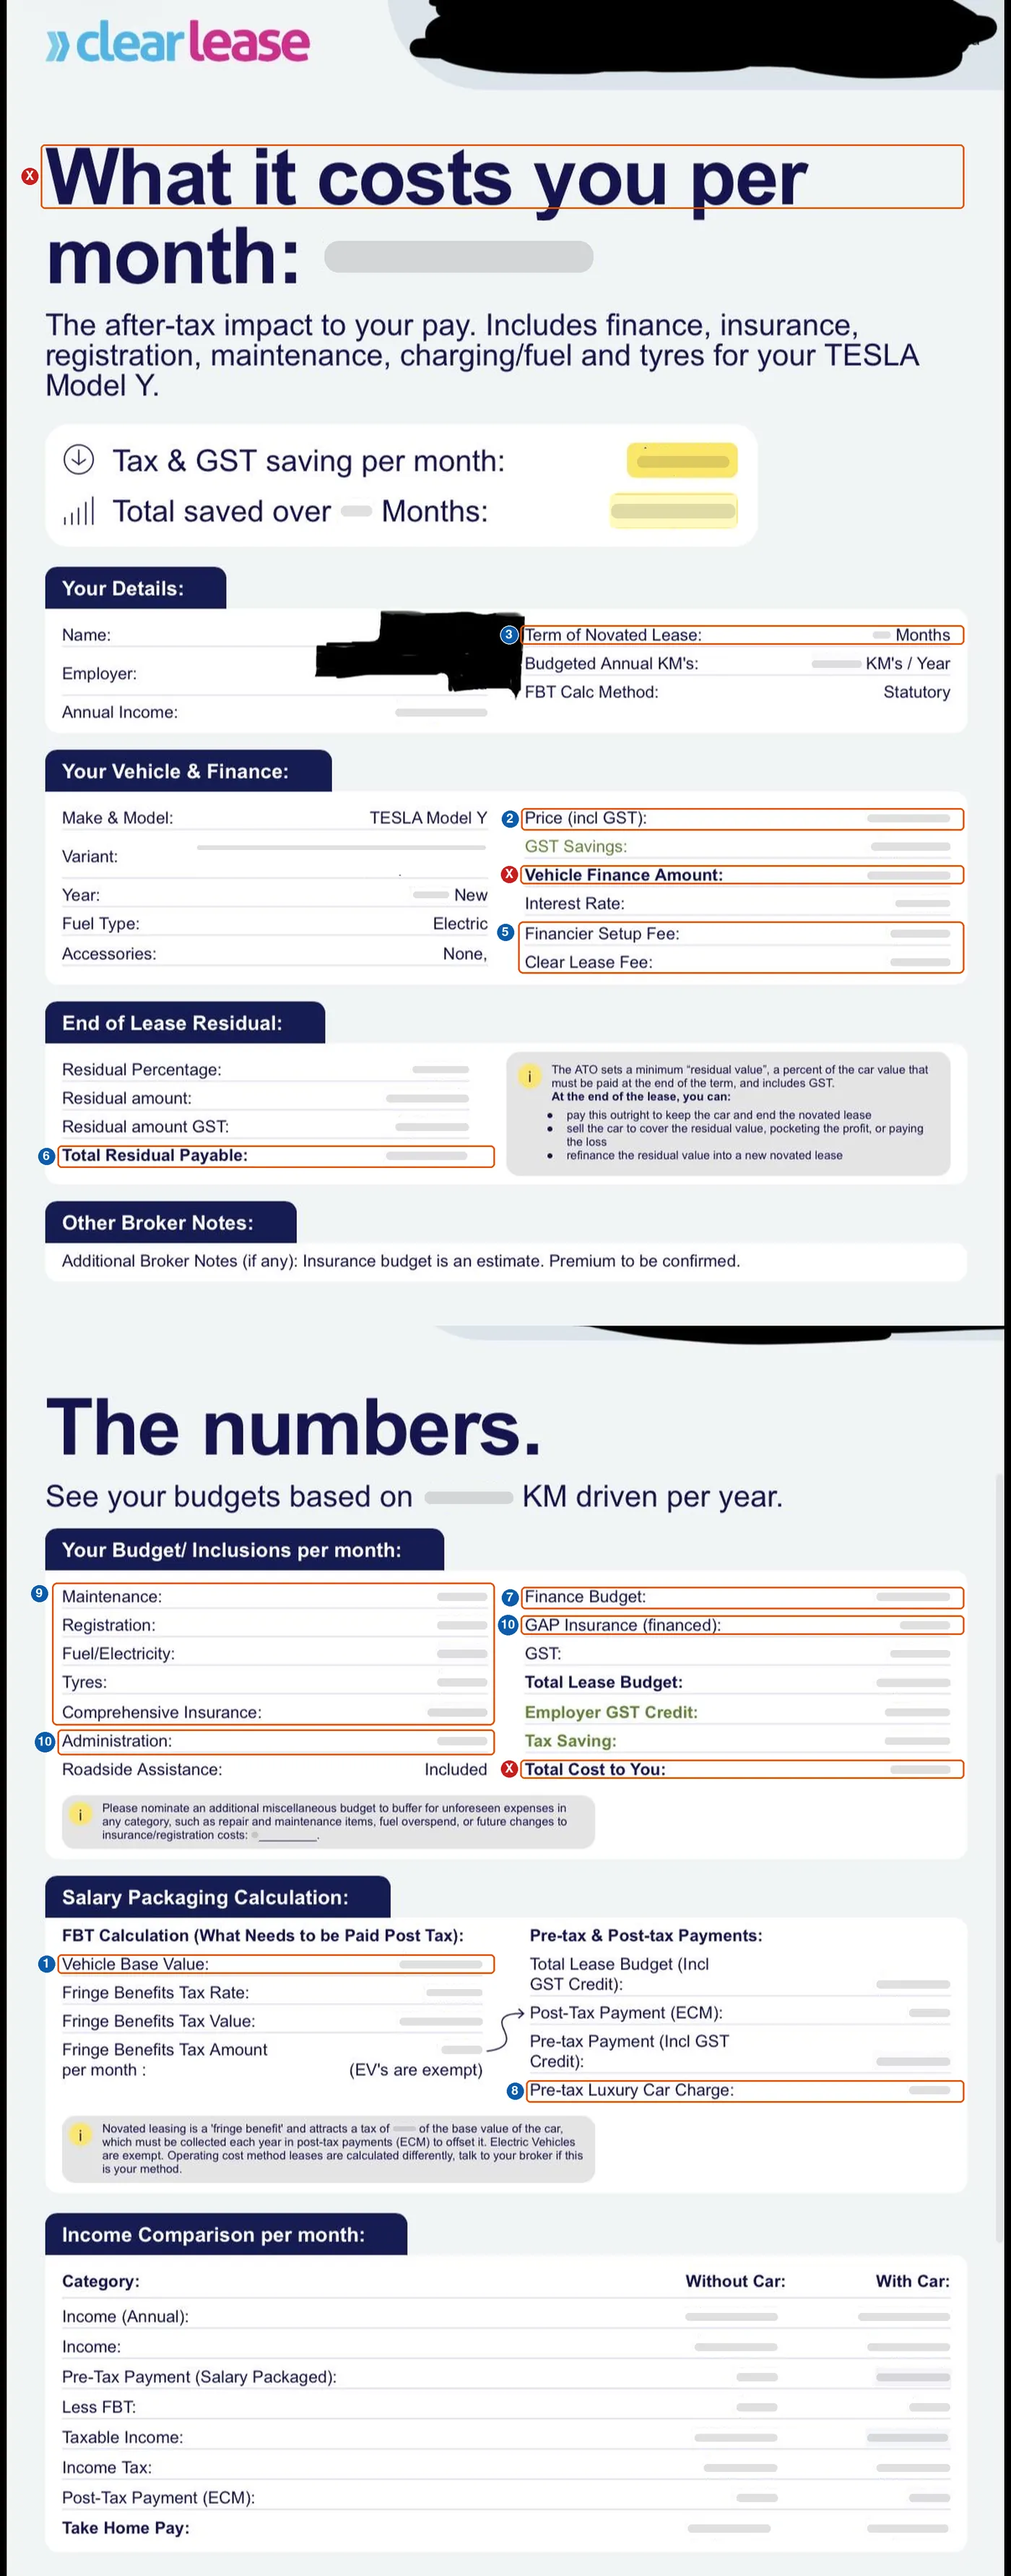
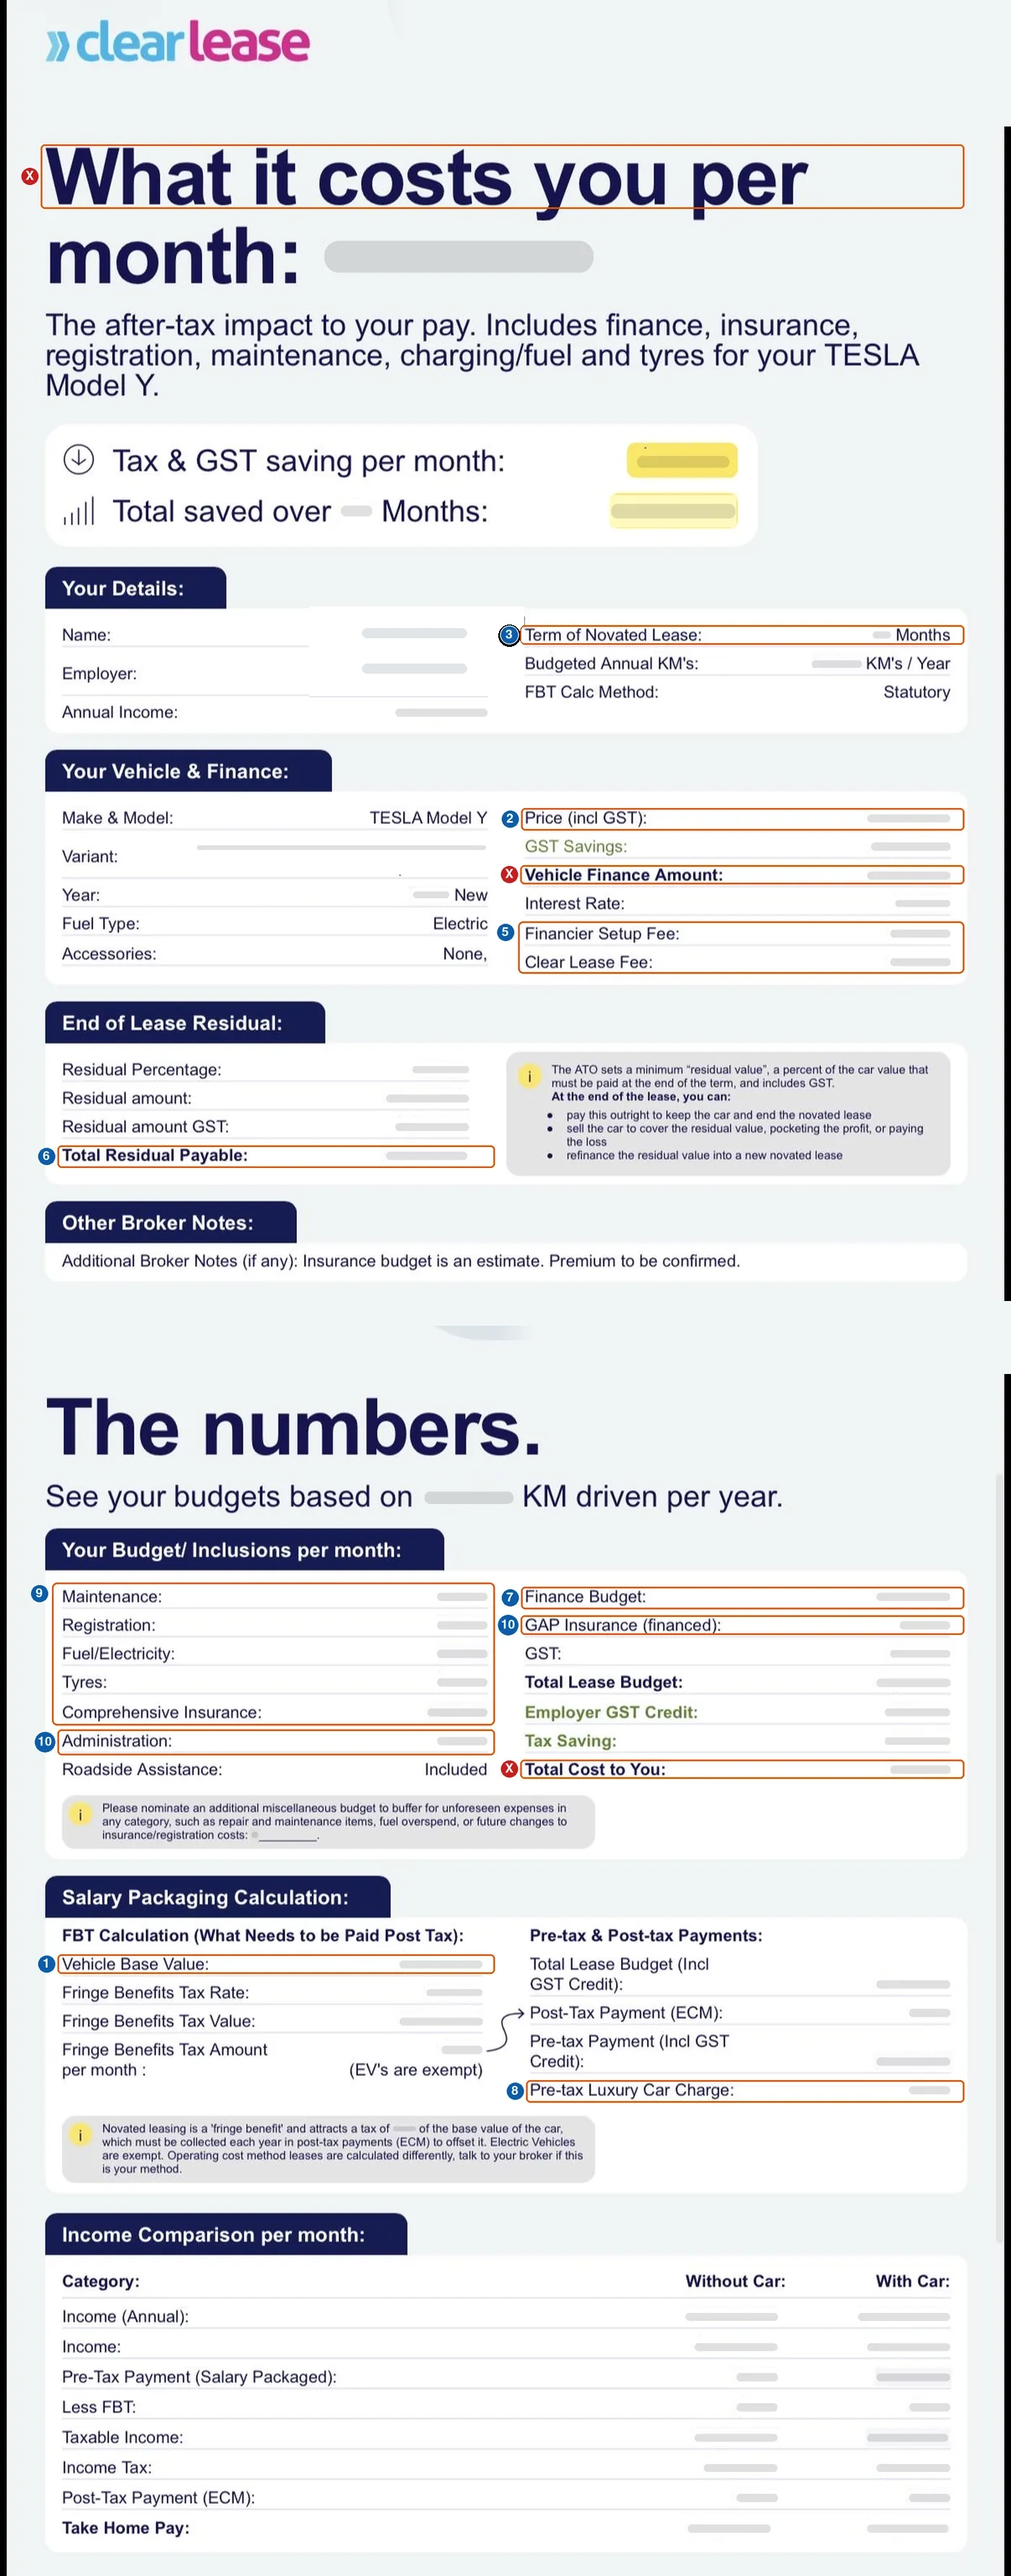
Clean black redactions from Clear Lease template

diff --git a/scripts/clean_clearlease_template.py b/scripts/clean_clearlease_template.py
@@ -1,0 +1,53 @@
+"""Replace three black marker strokes on the already-redacted Clear Lease page.
+
+The input is the published, numbered template, never the unredacted quote. All
+pixels outside the header, personal-details values, and page join are retained.
+"""
+
+from pathlib import Path
+import sys
+
+from PIL import Image, ImageDraw
+
+
+def clean(source: Path, output: Path) -> None:
+    original = Image.open(source).convert("RGB")
+    if original.size != (1400, 3564):
+        raise ValueError(f"Unexpected Clear Lease template size: {original.size}")
+    image = original.copy()
+    background = (240, 245, 245)
+
+    # The hand-drawn header and page-join strokes cover only empty decoration.
+    # Blend at the left edge; the right edge and whole stroke must be fully blank.
+    for left, right, top, bottom in ((500, 560, 0, 174), (690, 740, 1800, 1900)):
+        mask = Image.new("L", image.size)
+        mask_draw = ImageDraw.Draw(mask)
+        for x in range(left, right):
+            mask_draw.line((x, top, x, bottom), fill=round(255 * (x - left) / (right - left)))
+        mask_draw.rectangle((right, top, image.width, bottom), fill=255)
+        image.paste(Image.new("RGB", image.size, background), (0, 0), mask)
+
+    # Personal values were obscured by a black stroke. Leave blank value bars,
+    # while restoring the numbered marker and orange row outline on the right.
+    draw = ImageDraw.Draw(image)
+    draw.rectangle((428, 839, 725, 973), fill=(255, 255, 255))
+    for y in (869, 918):
+        draw.rounded_rectangle((501, y, 646, y + 13), radius=7, fill=(224, 229, 232))
+    draw.line((428, 963, 675, 963), fill=(230, 230, 235), width=2)
+    for y in range(839, 974):
+        for x in range(718, 726):
+            r, g, b = original.getpixel((x, y))
+            if r > 150 and g < 150 and b < 110:
+                image.putpixel((x, y), (r, g, b))
+    badge_mask = Image.new("L", (31, 31))
+    ImageDraw.Draw(badge_mask).ellipse((0, 0, 30, 30), fill=255)
+    image.paste(original.crop((690, 864, 721, 895)), (690, 864), badge_mask)
+
+    output.parent.mkdir(parents=True, exist_ok=True)
+    image.save(output, "WEBP", quality=92, method=6)
+
+
+if __name__ == "__main__":
+    if len(sys.argv) != 3:
+        raise SystemExit("Usage: clean_clearlease_template.py INPUT.webp OUTPUT.webp")
+    clean(Path(sys.argv[1]), Path(sys.argv[2]))

diff --git a/PROVIDER_GUIDE_HANDOVER_2026-11-15.md b/PROVIDER_GUIDE_HANDOVER_2026-11-15.md
@@ -183,3 +183,11 @@ Providers:
   prompt to check the heading and footnotes remains when no provider payment pointer exists.
 - Guided running-cost GST question: a proposed extra ITC hint was removed at the owner's
   request. The existing “Including GST” → GST-credit follow-up already handles those quotes.
+- Clear Lease template cleanup: the three crude black marker strokes in the header, personal
+  details box and page join were replaced with blank paper and neutral value bars in
+  `docs/assets/images/quote-guide/clearlease/redacted-quote.webp`. The quote's labels and numbered
+  markers remain from the original redacted template. `scripts/clean_clearlease_template.py`
+  reproduces the cleanup using only that already-redacted 1400×3564 asset; if the private master
+  is republished later, run the script again on the new redacted WebP. The public Astro asset is
+  hardlinked to the tracked `docs` file. Visual inspection and a pixel check found no remaining
+  near-black stroke pixels in the three cleaned areas. No private original was committed.
